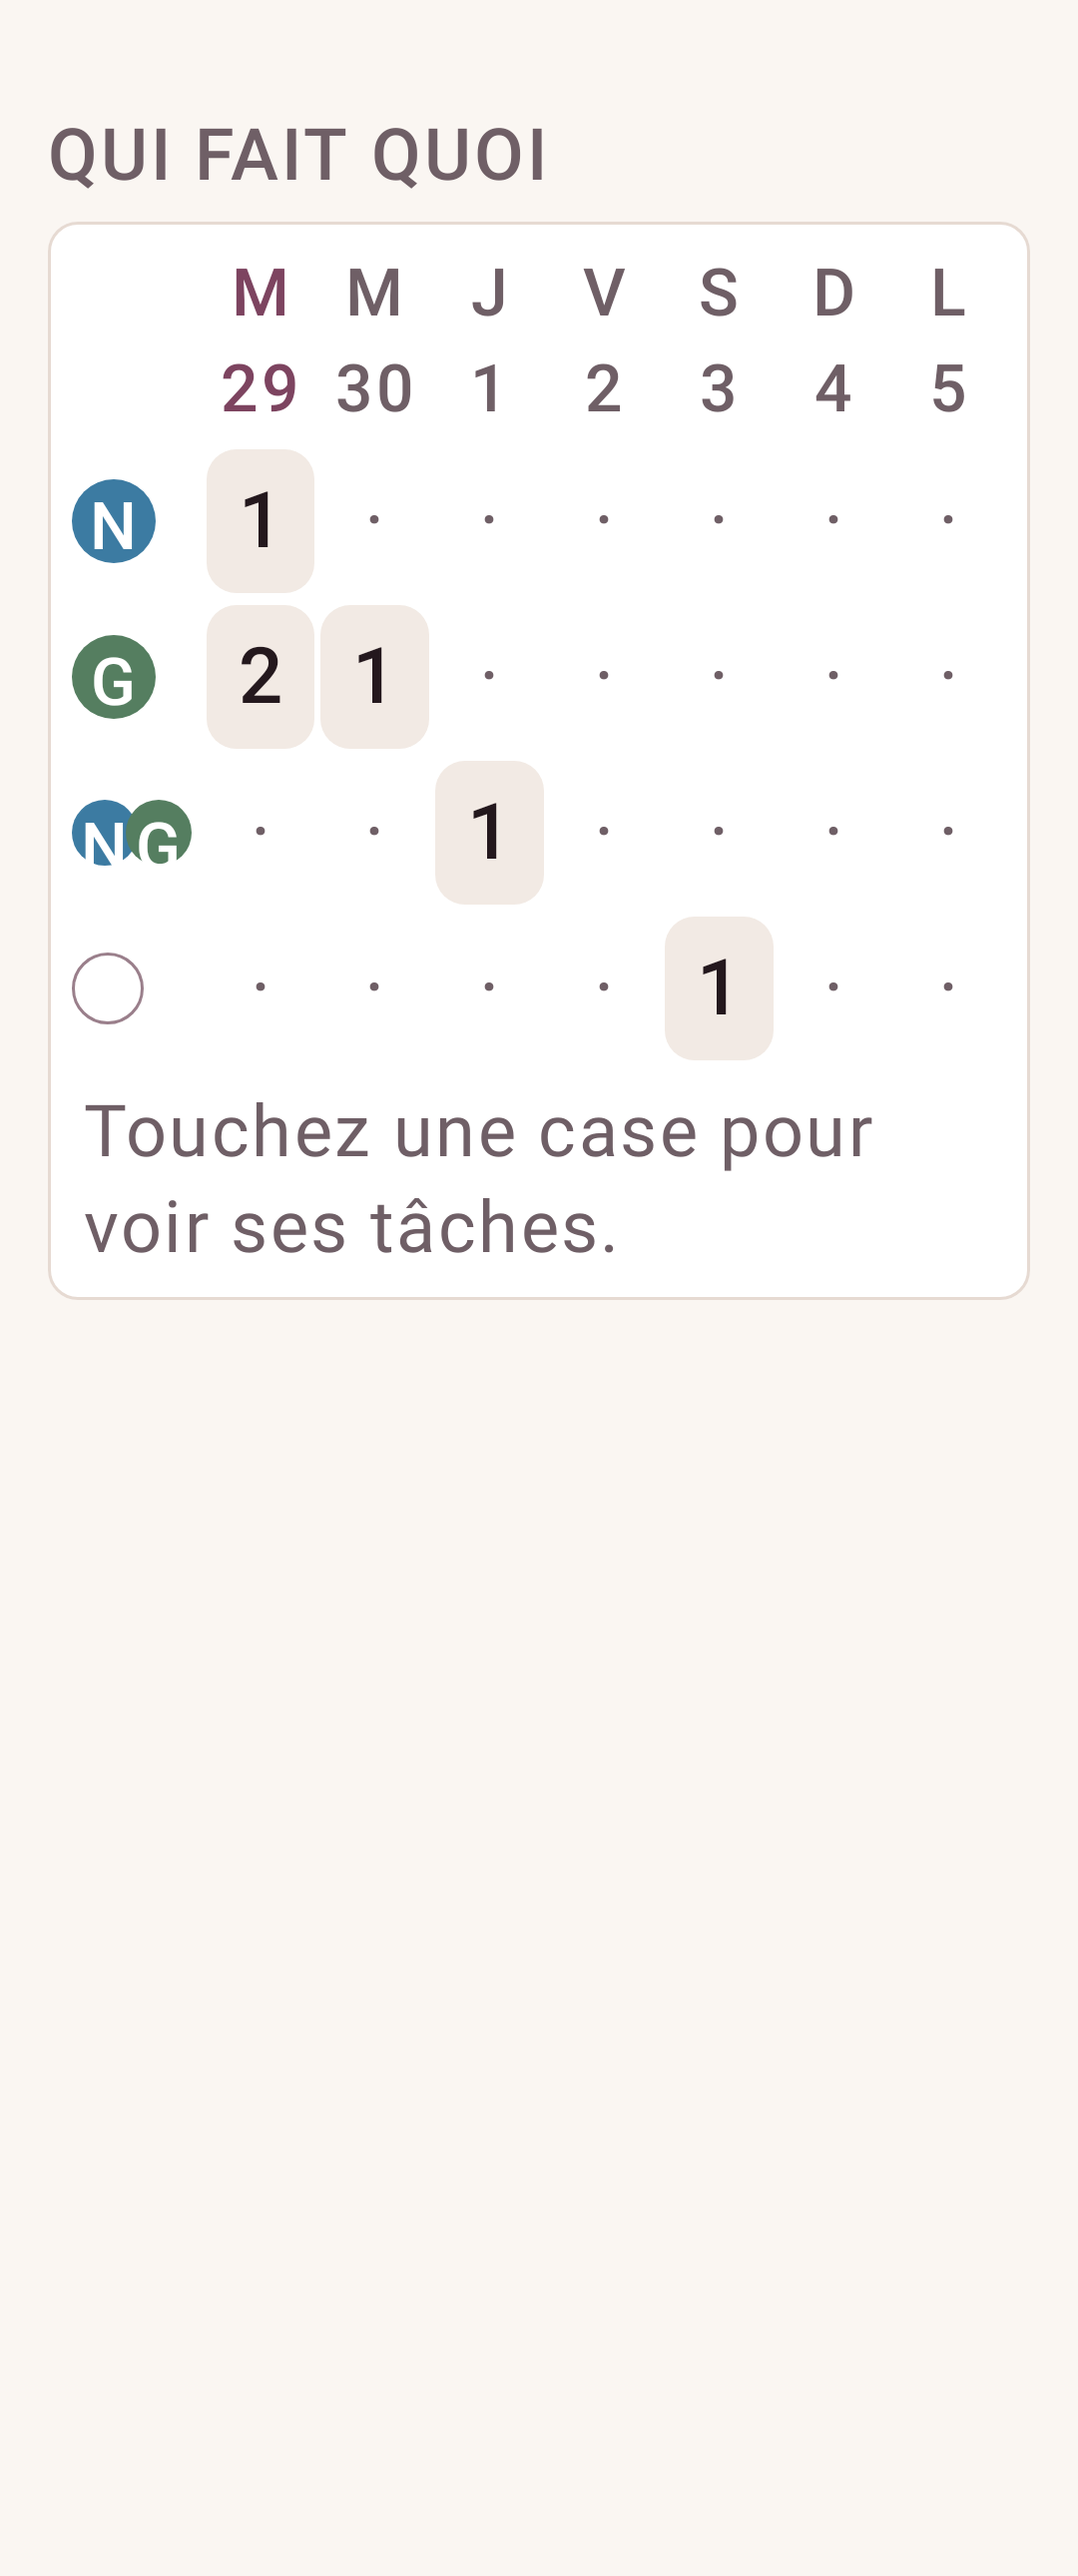
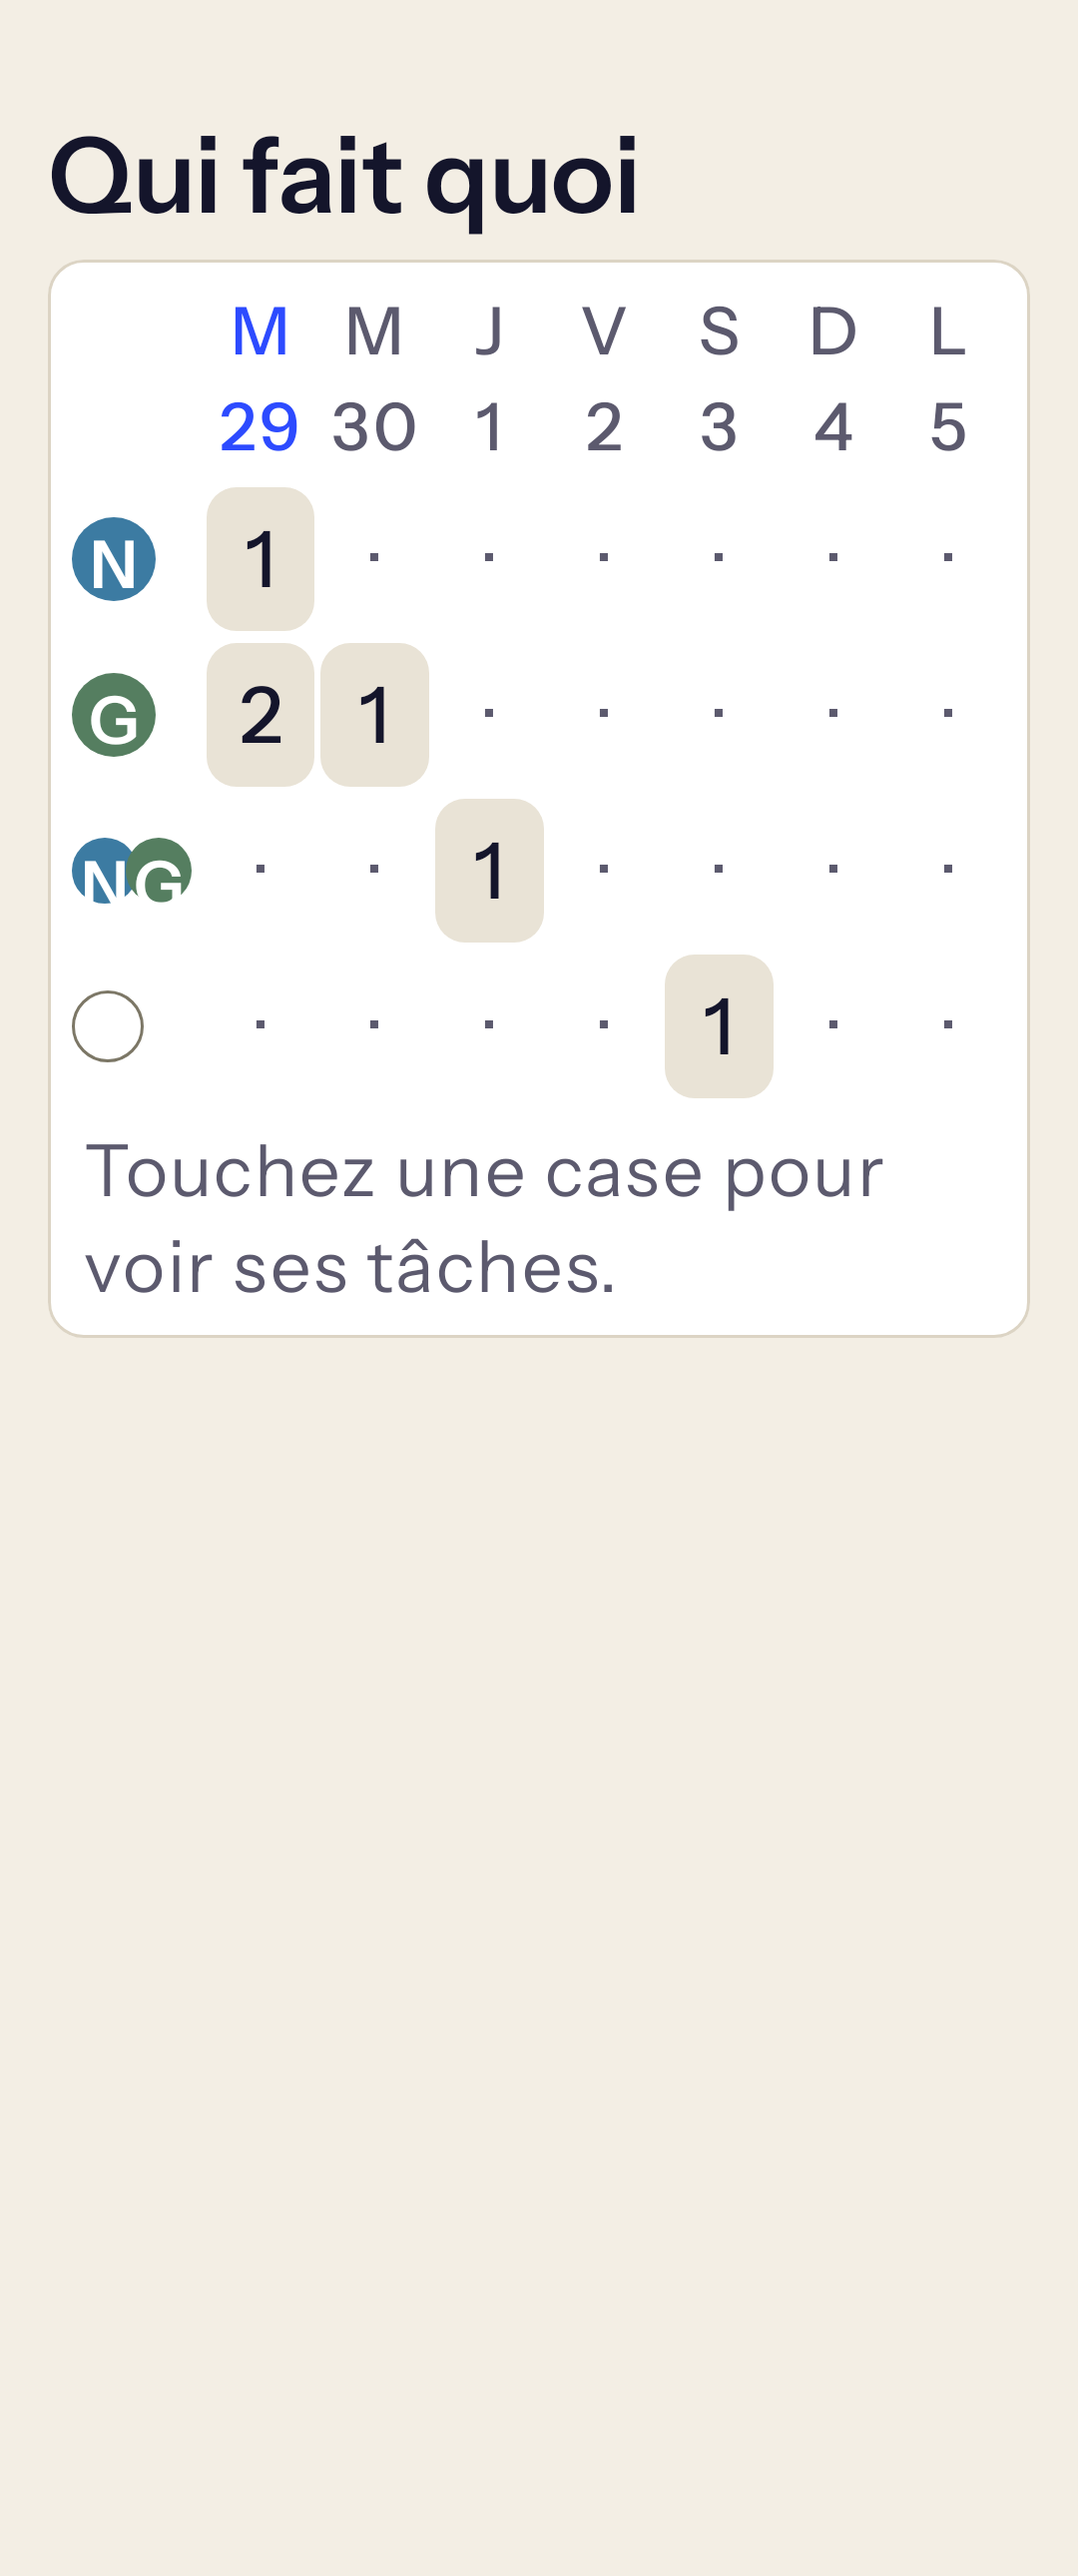
Captures Android de la doc et de la fiche Play dans l'identité « Deux fils »
Depuis l'artefact android-captures du workflow Android (run 41183283569, main).

Claude-Session: https://claude.ai/code/session_015VHKVTPtEGJEjvAhjHkTaK

Changed region(s): [[0.0306, 0.031, 0.9472, 0.3721], [0.0611, 0.186, 0.825, 0.5271]]

diff --git a/docs/roadmap.md b/docs/roadmap.md
@@ -338,8 +338,8 @@ dans `docs/brand/`. Maquettes : tableau « Tandem · Maquettes du site », page 
 - [x] Images de partage du site refaites (`scripts/generate-icons.mjs`) 🪧 (#123)
 - [x] Documentation (Docusaurus) aux couleurs de l'identité : papier, nuit, cobalt, titres en
   Instrument Serif, polices servies par le site (S) 🪧 (#123)
-- [ ] Captures Android de la doc (`docs/screenshots/android`) dans la nouvelle identité : étiquette
-  `captures` puis copie de l'artefact (S) 🤖
+- [x] Captures Android de la doc (`docs/screenshots/android`) et de la fiche Play dans la nouvelle
+  identité, depuis l'artefact `android-captures` (S) 🤖 (#124)
 - [ ] Accueil de l'app web plus léger : Lighthouse ≥ 90 stable sur `/` en CI (S) 🌐
 - [x] Captures de l'app du site refaites dans la nouvelle identité 🪧 (#123) ; celles de la fiche
   Play se refont au lancement du workflow de la fiche 🤖

diff --git a/docs/changelog.md b/docs/changelog.md
@@ -15,6 +15,11 @@ d'elle-même (ou via Google Play).
 
 ## 31 octobre 2026
 
+### Captures Android dans la nouvelle identité (#124)
+
+- 🛠 Les captures de l'app Android dans le guide et sur la fiche Google Play montrent l'identité
+  « Deux fils ».
+
 ### Site de présentation redessiné (#123)
 
 - ✨ **Nouveau site** aux couleurs « Deux fils » : une pile de tâches qui se distribue, une semaine
